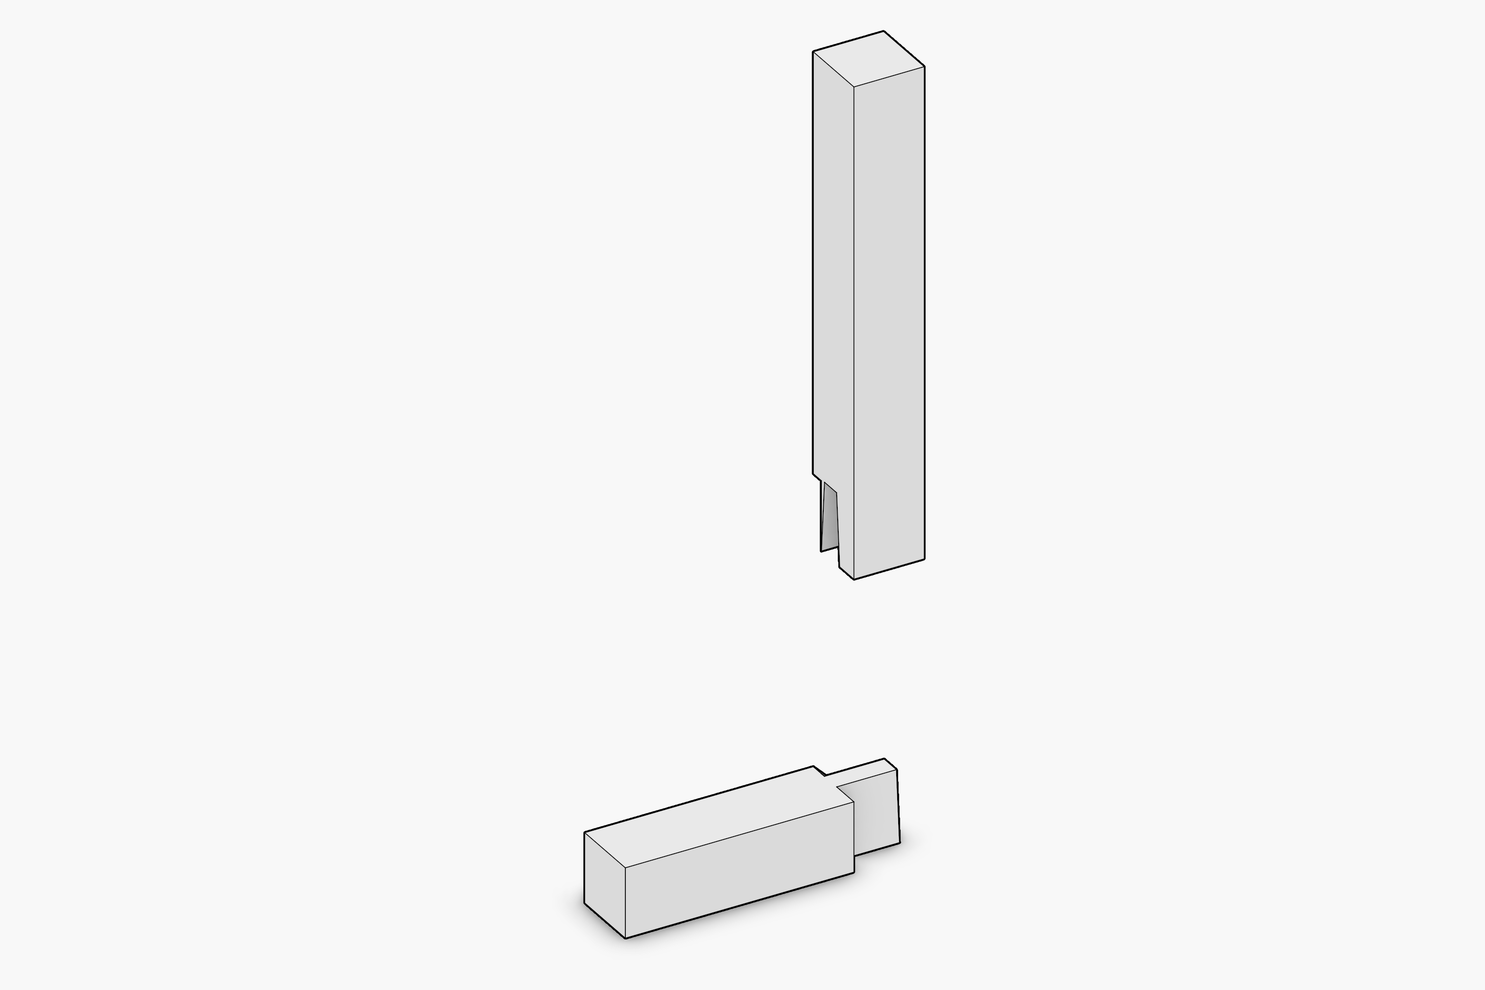
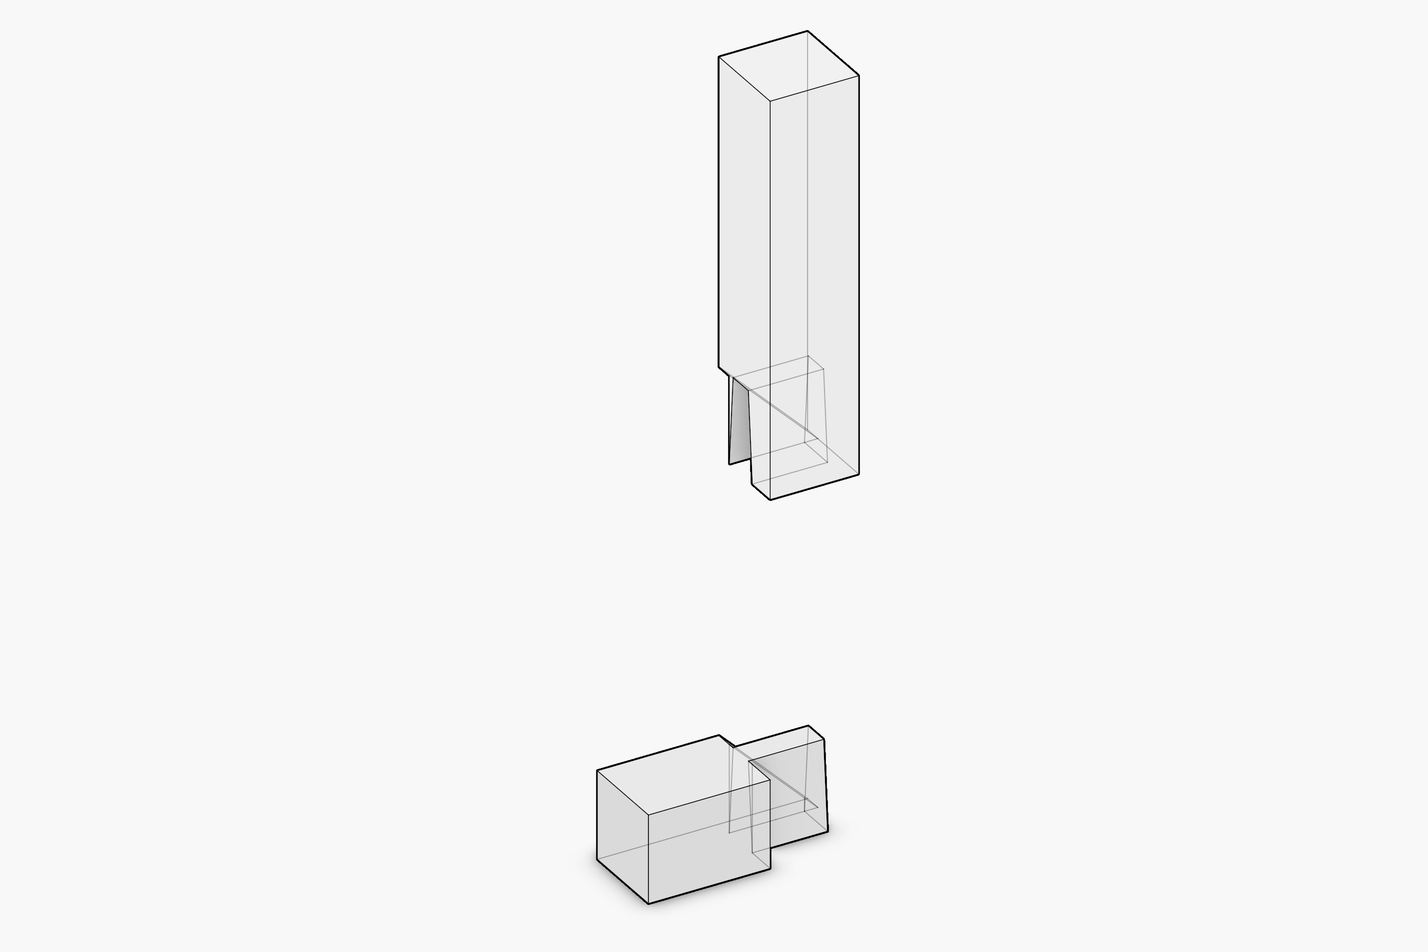
Joint library: diagonal cross puzzle p. 734, six sticks turned 45 degrees, the key uncut, notches chosen so it comes apart in straight moves; roll turns a crossing's sections; a level member keeps its direction; library beams half as long and the gallery drawn see-through

Changed region(s): [[0.493, 0.0305, 0.6471, 0.5788], [0.3697, 0.7616, 0.6162, 0.9748], [0.493, 0.0609, 0.5238, 0.0914]]

diff --git a/src/joinery_solver/wood_elements/wood_joint_library.cpp b/src/joinery_solver/wood_elements/wood_joint_library.cpp
@@ -140,10 +140,11 @@ struct Reader {
     }
 };
 
-/// A beam along axis, square of half side thick when wide is the same, else a board thick across up and wide across both.
-std::shared_ptr<EdgeStraightElement> stock(const Polyline& axis, const Vector& up, double thick, double wide, const std::string& name) {
+/// A beam along axis, square of half side thick when wide is the same, else a board thick across up and wide across both; a
+/// rolled beam keeps up even when square.
+std::shared_ptr<EdgeStraightElement> stock(const Polyline& axis, const Vector& up, double thick, double wide, const std::string& name, bool rolled = false) {
 
-    if (std::abs(thick - wide) < 1e-9)
+    if (std::abs(thick - wide) < 1e-9 && !rolled)
         return EdgeStraightElement::square(axis, thick, name);
 
     const Point start = axis.get_point(0);
@@ -251,7 +252,7 @@ LibraryRecord library_record(const std::string& design) {
 std::array<std::shared_ptr<EdgeStraightElement>, 2> library_pair(const std::string& design, bool square, const Point& at) {
 
     const LibraryRecord record = library_record(design);
-    std::map<std::string, double> numbers = {{"sit", 0.0}, {"shift", 0.0}, {"tail", 600.0}, {"pitch", 35.0}, {"reach", 450.0}, {"span", 450.0}, {"lap", 2.0}, {"stock_thick", 60.0}, {"stock_wide", 60.0}};
+    std::map<std::string, double> numbers = {{"sit", 0.0}, {"shift", 0.0}, {"tail", 300.0}, {"pitch", 35.0}, {"reach", 225.0}, {"span", 225.0}, {"lap", 2.0}, {"stock_thick", 60.0}, {"stock_wide", 60.0}};
     for (const std::string& line : record.lists.count("parameters") ? record.lists.at("parameters") : std::vector<std::string>()) {
         const size_t equals = line.find('=');
         numbers[unquoted(line.substr(0, equals))] = std::stod(line.substr(equals + 1));
@@ -269,8 +270,8 @@ std::array<std::shared_ptr<EdgeStraightElement>, 2> library_pair(const std::stri
     // a splice: both along x on one line, overlapping by lap section heights, the member on the +x side
     if (record.fields.at("family") == "splicing") {
         const double overlap = numbers["lap"] * 2.0 * numbers["stock_thick"];
-        member = stock(Polyline({at - Vector(0.5 * overlap, 0.0, 0.0), at + Vector(600.0, 0.0, 0.0)}), Vector::z_axis(), numbers["stock_thick"], numbers["stock_wide"], design + "_member");
-        carrier = stock(Polyline({at - Vector(600.0, 0.0, 0.0), at + Vector(0.5 * overlap, 0.0, 0.0)}), Vector::z_axis(), numbers["stock_thick"], numbers["stock_wide"], design + "_carrier");
+        member = stock(Polyline({at - Vector(0.5 * overlap, 0.0, 0.0), at + Vector(300.0, 0.0, 0.0)}), Vector::z_axis(), numbers["stock_thick"], numbers["stock_wide"], design + "_member");
+        carrier = stock(Polyline({at - Vector(300.0, 0.0, 0.0), at + Vector(0.5 * overlap, 0.0, 0.0)}), Vector::z_axis(), numbers["stock_thick"], numbers["stock_wide"], design + "_carrier");
         if (square_stock)
             member->directions = {Vector::z_axis()};
         if (square_stock)
@@ -284,8 +285,10 @@ std::array<std::shared_ptr<EdgeStraightElement>, 2> library_pair(const std::stri
         const double carrier_thick = numbers.count("carrier_thick") ? numbers["carrier_thick"] : half;
         const double carrier_wide = numbers.count("carrier_wide") ? numbers["carrier_wide"] : half;
         const double member_thick = numbers["stock_thick"];
-        carrier = stock(Polyline({at + Vector(0.0, -450.0, 0.0), at + Vector(0.0, numbers["reach"], 0.0)}), Vector::z_axis(), carrier_thick, carrier_wide, design + "_carrier");
-        if (std::abs(carrier_thick - carrier_wide) < 1e-9)
+        // roll turns both sections about their own axes (a diagonal puzzle's sticks stand on an edge) and keeps them from being turned
+        const double roll = (numbers.count("roll") ? numbers["roll"] : 0.0) * Tolerance::PI / 180.0;
+        carrier = stock(Polyline({at + Vector(0.0, -225.0, 0.0), at + Vector(0.0, numbers["reach"], 0.0)}), Vector(std::sin(roll), 0.0, std::cos(roll)), carrier_thick, carrier_wide, design + "_carrier", roll != 0.0);
+        if (std::abs(carrier_thick - carrier_wide) < 1e-9 && roll == 0.0)
             carrier->directions = {Vector::z_axis()};
         // plan turns the member about z from square across the carrier (90 degrees) to the crossing angle it names
         const double plan = (numbers.count("plan") ? numbers["plan"] : 90.0) * Tolerance::PI / 180.0;
@@ -294,8 +297,8 @@ std::array<std::shared_ptr<EdgeStraightElement>, 2> library_pair(const std::stri
         const Vector slope(std::cos(turn) * std::sin(plan), std::cos(turn) * std::cos(plan), std::sin(turn));
         const Point underside = at + Vector(0.0, 0.0, carrier_thick) + downhill * (numbers["shift"] * carrier_thick) - Vector(0.0, 0.0, numbers["sit"] * 2.0 * carrier_thick);
         const Point on_axis = underside + up * member_thick;
-        member = stock(Polyline({on_axis - slope * numbers["tail"], on_axis + slope * 600.0}), up, member_thick, numbers["stock_wide"], design + "_member");
-        if (square_stock)
+        member = stock(Polyline({on_axis - slope * numbers["tail"], on_axis + slope * 300.0}), up * std::cos(roll) + slope.cross(up) * std::sin(roll), member_thick, numbers["stock_wide"], design + "_member", roll != 0.0);
+        if (square_stock && roll == 0.0)
             member->directions = {Vector(-std::cos(plan), std::sin(plan), 0.0)};
         return {member, carrier};
     }
@@ -310,7 +313,7 @@ std::array<std::shared_ptr<EdgeStraightElement>, 2> library_pair(const std::stri
     const double carrier_end = record.fields.at("category") == "end_end_inplane" ? numbers["stock_thick"] : numbers["span"];
     const Vector across(-std::sin(turn), 0.0, std::cos(turn));
     carrier = stock(Polyline({at - Vector(numbers["span"], 0.0, 0.0), at + Vector(carrier_end, 0.0, 0.0)}), flat ? Vector::y_axis() : Vector::z_axis(), carrier_thick, carrier_wide, design + "_carrier");
-    member = stock(Polyline({at, at + along * 600.0}), flat ? Vector::y_axis() : across, numbers["stock_thick"], numbers["stock_wide"], design + "_member");
+    member = stock(Polyline({at, at + along * 300.0}), flat ? Vector::y_axis() : across, numbers["stock_thick"], numbers["stock_wide"], design + "_member");
     if (std::abs(carrier_thick - carrier_wide) < 1e-9)
         carrier->directions = {Vector::y_axis()};
     if (square_stock)

diff --git a/examples/elements/element_joint_beam_library.cpp b/examples/elements/element_joint_beam_library.cpp
@@ -43,13 +43,13 @@ int main() {
             // drawn apart as the book draws it: an end member out along its own axis whatever way it goes in, a crossing one lifted
             // straight up with the pegs that run across it, each peg or wedge out along its own way and aside from the carrier's axis
             const bool crossing = library_record(design).fields.at("category") == "cross";
-            const Vector out = crossing ? Vector(0.0, 0.0, 650.0) : (member->axis.get_point(1) - member->axis.get_point(0)).normalized() * 500.0;
+            const Vector out = crossing ? Vector(0.0, 0.0, 325.0) : (member->axis.get_point(1) - member->axis.get_point(0)).normalized() * 250.0;
             member->place(Xform::translation(out[0], out[1], out[2]));
             // a more member out along its own axis away from the node, or on a crossing lifted twice as high as the member
             for (size_t m = 2; m < members.size(); m++) {
                 const Point start = members[m]->axis.get_point(0);
                 const Point end = members[m]->axis.get_point(1);
-                const Vector along_axis = (Point::distance(start, node) < Point::distance(end, node) ? end - start : start - end).normalized() * 500.0;
+                const Vector along_axis = (Point::distance(start, node) < Point::distance(end, node) ? end - start : start - end).normalized() * 250.0;
                 const Vector away = crossing ? out * 2.0 : along_axis;
                 members[m]->place(Xform::translation(away[0], away[1], away[2]));
             }
@@ -76,7 +76,7 @@ int main() {
 
 /*
 |||||||| DESCRIPTION ||||||||
-Every joint of the beam joint library (data/joints/*.yaml, Bauer and Pauli's Joinery Compendium) built by JointBeamElement::from_library on a pair of 120 x 120 beams, one group and one row per design named after it: the member square on the carrier, then leaning at 50 degrees, its stock running 180 mm past its axis end so a lap can pass through the carrier; each drawn apart as the book draws it, an end member 500 mm out along its own axis, a crossing one lifted 650 mm with the pegs that run across it, every peg or wedge out along its own way by its length and 150 mm and as far aside from the carrier.
+Every joint of the beam joint library (data/joints/*.yaml, Bauer and Pauli's Joinery Compendium) built by JointBeamElement::from_library on a pair of 120 x 120 beams, one group and one row per design named after it: the member square on the carrier, then leaning at 50 degrees, its stock running 180 mm past its axis end so a lap can pass through the carrier; each drawn apart as the book draws it, an end member 250 mm out along its own axis, a crossing one lifted 325 mm with the pegs that run across it, every peg or wedge out along its own way by its length and 150 mm and as far aside from the carrier.
 
 |||||||| DIRECTORY ||||||||
 cd wood_research/wood

diff --git a/src/joinery_solver/wood_elements/wood_element_joint_beam.cpp b/src/joinery_solver/wood_elements/wood_element_joint_beam.cpp
@@ -2748,11 +2748,25 @@ std::shared_ptr<JointBeamElement> JointBeamElement::from_library(
         Vector u = a_axis.to_vector().normalized() * (crossing || t_a < 0.5 ? 1.0 : -1.0);
         // a crossing's member lies over the carrier; when the axes meet (a cross lap) it lies over it along world up
     const Vector toward = !crossing ? u : Point::distance(on_a, node) > 1e-6 ? (on_a - node).normalized() : Vector::z_axis();
-        const std::pair<std::array<Vector, 2>, std::array<double, 2>> b_section = section_axes(b);
-        const std::pair<std::array<Vector, 2>, std::array<double, 2>> a_section = section_axes(a);
+        std::pair<std::array<Vector, 2>, std::array<double, 2>> b_section = section_axes(b);
+        std::pair<std::array<Vector, 2>, std::array<double, 2>> a_section = section_axes(a);
+        // a record's roll turned both sections about their axes (a diagonal puzzle): the frame is taken from them turned back
+        for (const std::string& line : record.lists["parameters"]) {
+            const std::vector<std::string> pair = split_top(line, '=');
+            if (pair[0] != "roll")
+                continue;
+            const double roll = parameters.count("roll") ? parameters.at("roll") : std::stod(pair[1]);
+            const Xform back_a = Xform::rotation(a_axis.to_vector().normalized(), -roll, true);
+            const Xform back_b = Xform::rotation(b_axis.to_vector().normalized(), -roll, true);
+            for (size_t i = 0; i < 2; i++) {
+                a_section.first[i] = a_section.first[i].transformed(back_a);
+                b_section.first[i] = b_section.first[i].transformed(back_b);
+            }
+        }
         const size_t k = std::abs(b_section.first[0].dot(toward)) >= std::abs(b_section.first[1].dot(toward)) ? 0 : 1;
         const Vector n = b_section.first[k] * (b_section.first[k].dot(toward) > 0.0 ? 1.0 : -1.0);
-        if (crossing && u.dot(n) < 0.0)
+        // a level member (pitch 0) keeps its own direction: rounding noise in the dot must not turn the frame
+        if (crossing && u.dot(n) < -1e-9)
             u = u * -1.0;
 
         const Vector along_b = b_axis.to_vector().normalized();

diff --git a/src/joinery_solver/wood_elements/wood_joint_library.h b/src/joinery_solver/wood_elements/wood_joint_library.h
@@ -34,11 +34,11 @@ LibraryRecord library_record(const std::string& design);
 /// one: a side_end member ending on a carrier along x, square or leaning 50 degrees from it, its stock 180 mm past its end (an
 /// end_end_inplane corner's carrier ending flush with the member's outer face); a cross
 /// member pitched over a carrier along y, its underside through the carrier's top centre moved shift of the half width downhill and sit of the depth
-/// down, running tail mm past the crossing (the record's parameters pitch, sit, shift and tail, 35 degrees, 0, 0 and 600 when it has none), the carrier running reach mm past
-/// it (450; 60 for a corner, flush with the member's side); a splice's two along x on one line, overlapping by lap section heights (2).
+/// down, running tail mm past the crossing (the record's parameters pitch, sit, shift and tail, 35 degrees, 0, 0 and 300 when it has none), the carrier running reach mm past
+/// it (225; 60 for a corner, flush with the member's side); a splice's two along x on one line, overlapping by lap section heights (2).
 /// A record with stock_thick and stock_wide (half sizes, 60 each) draws boards: thick across the plane of the joint, wide out of it.
-/// carrier_thick and carrier_wide give a side or corner carrier its own section and span its half length (450); flat lays a board
-/// and its batten in the plane of the joint, their thickness across it.
+/// carrier_thick and carrier_wide give a side or corner carrier its own section and span its half length (225); flat lays a board
+/// and its batten in the plane of the joint, their thickness across it. roll turns a crossing's two sections about their axes (degrees).
 std::array<std::shared_ptr<EdgeStraightElement>, 2> library_pair(const std::string& design, bool square, const Point& at);
 
 /// The members a record is drawn on: library_pair's member and carrier, then one more per line of its list more, "c = start,

diff --git a/tools/render_joint_library.py b/tools/render_joint_library.py
@@ -1,6 +1,6 @@
 """One picture per joint of the beam joint library, docs/images/joint_library/beam_<design>.png: runs element_joint_beam_library,
 takes each design's group (the joint on a square corner and on an inclined one, as its record allows) and draws it with the
-viewer crate's native renderer in the Arctic look, ambient occlusion and outlines, cropped to 3:2 with a margin; then rewrites
+viewer crate's native renderer in the Arctic look, ambient occlusion and outlines, see-through so hidden cuts show, cropped to 3:2 with a margin; then rewrites
 the table of docs/elements/element_joint_beam_compendium.md between its joint-table markers from the records, and the list of
 the book's joints still to do (tools/joint_library_todo.py).
 
@@ -47,7 +47,7 @@ print(json.dumps(written))
 def render(pb: str) -> Image.Image:
     """The scene drawn isometric at 3600 x 2400, the outline twice its width for the halving, cropped to 3:2 and halved."""
     env = dict(
-        os.environ, VIEWER_SHEETS="0", VIEWER_OPACITY="1.0", VIEWER_W="3600", VIEWER_H="2400", VIEWER_DPR="2",
+        os.environ, VIEWER_SHEETS="0", VIEWER_OPACITY="0.45", VIEWER_W="3600", VIEWER_H="2400", VIEWER_DPR="2",
         VIEWER_THICKNESS="1", VIEWER_VIEW="iso", VIEWER_PLANE_SIZE="0", VIEWER_NO_GRID="1", VIEWER_AO="1", VIEWER_OUTLINES="1",
     )
     with tempfile.TemporaryDirectory() as tmp:

diff --git a/docs/elements/element_joint_beam_compendium.md b/docs/elements/element_joint_beam_compendium.md
@@ -240,6 +240,7 @@ The joints of the book not in the library yet are listed on @ref elements_joint_
 | ![](joint_library/beam_wedged_two_way_oblique_cogged.png) | **Wedged two-way oblique cogged joint**<br>verkeiltes zweiseitiges Hakendruckschloss mit schrägen Haken, p. 742<br>`wedged_two_way_oblique_cogged` |
 | ![](joint_library/beam_pegged_two_way_gooseneck.png) | **Pegged two-way gooseneck joint**<br>Sichelzapfenverbindung mit Dübelsicherung, p. 740<br>`pegged_two_way_gooseneck` |
 | ![](joint_library/beam_notched_corner_post_beveled_tenons.png) | **Notched corner-post joint with beveled-shoulder tenons**<br>Zapfen mit schräger einseitig auf Gehrung angeschnittener Brust, p. 718<br>`notched_corner_post_beveled_tenons` |
+| ![](joint_library/beam_diagonal_cross_puzzle.png) | **Diagonal cross puzzle**<br>diagonaler Zimmermannsknoten, p. 734<br>`diagonal_cross_puzzle` |
 | ![](joint_library/beam_half_lap_splice.png) | **Half lap joint**<br>gerades Blatt, p. 42<br>`half_lap_splice` |
 | ![](joint_library/beam_beveled_lap_splice.png) | **Beveled lap joint**<br>Zugblatt, p. 46<br>`beveled_lap_splice` |
 | ![](joint_library/beam_half_lap_stub_tenon_splice.png) | **Half lap joint with stub tenon**<br>gerades Blatt mit einseitigem Zapfen, p. 50<br>`half_lap_stub_tenon_splice` |

diff --git a/docs/joint_library_todo.md b/docs/joint_library_todo.md
@@ -1,6 +1,6 @@
 # Joint library: what is left {#elements_joint_library_todo}
 
-The joints of the Joinery Compendium (Bauer, Pauli 2024) the beam joint library has no record of yet: 8 of 407. Written by `python3 tools/joint_library_todo.py` from `data/joints/compendium_index.txt`; a joint leaves the list when a `data/joints/*.yaml` record names its page.
+The joints of the Joinery Compendium (Bauer, Pauli 2024) the beam joint library has no record of yet: 7 of 407. Written by `python3 tools/joint_library_todo.py` from `data/joints/compendium_index.txt`; a joint leaves the list when a `data/joints/*.yaml` record names its page.
 
 ## Timber splicing joints: 1 left of 110
 
@@ -22,11 +22,10 @@ All done.
 
 - p. 650, Four-part cogged cross lap joint (viergliedriges Kreuzblatt mit Haken)
 
-## Timber specialty joints: 4 left of 29
+## Timber specialty joints: 3 left of 29
 
 - p. 730, Chidori puzzle joint (einfach abgesetztes Kreuzblatt und Stab mit Rundholzverbindung)
 - p. 732, Cross puzzle (Zimmermannsknoten)
-- p. 734, Diagonal cross puzzle (diagonaler Zimmermannsknoten)
 - p. 744, Wedged four-way splayed cogged joint (verkeiltes vierseitiges Hakendruckschloss mit schrägen Haken)
 
 ## Case edge joints: 1 left of 13
